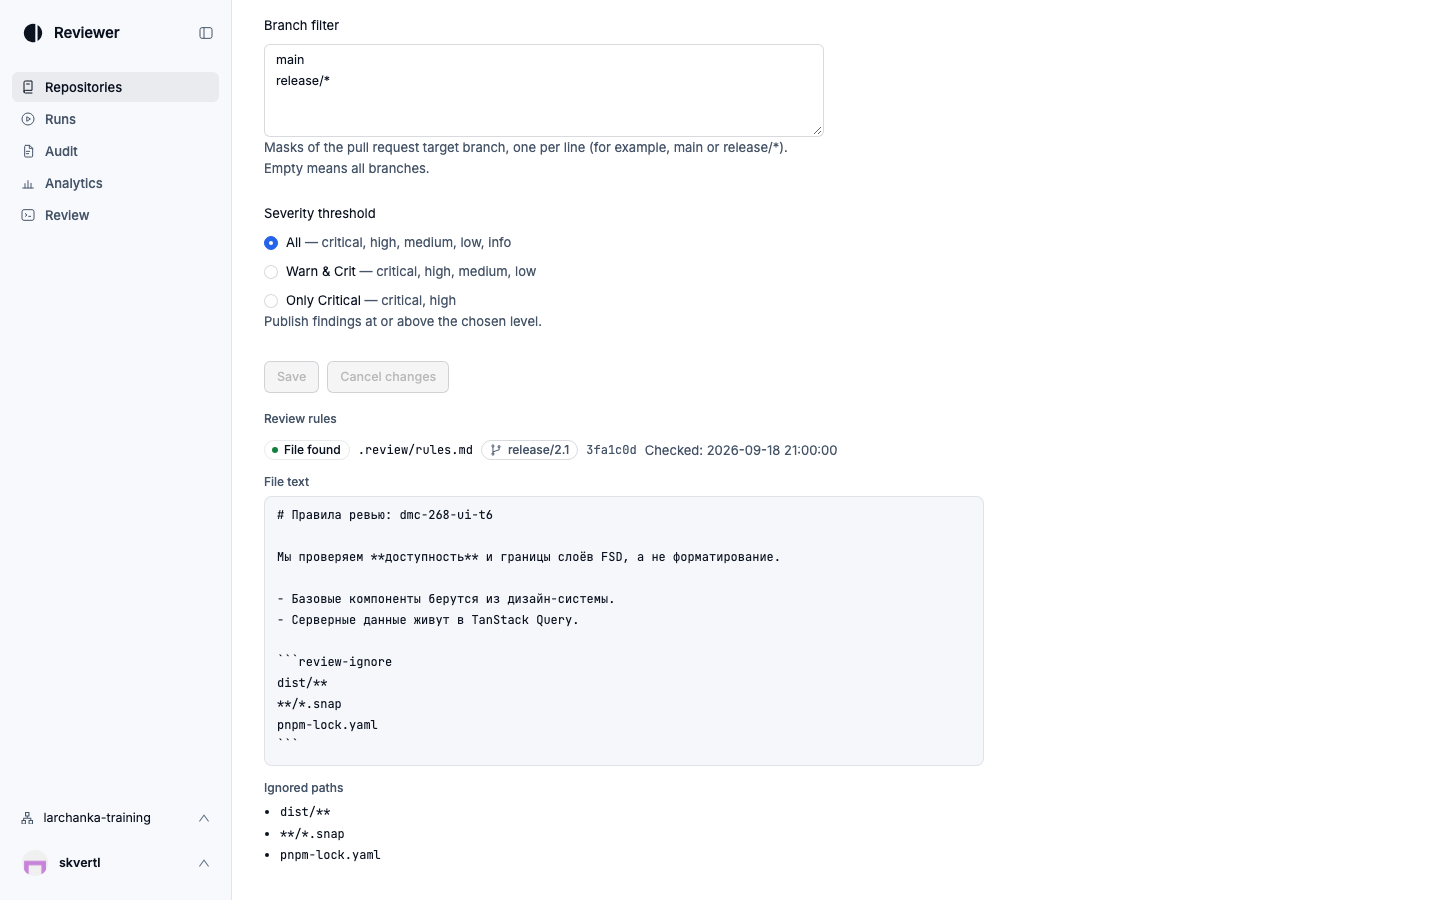
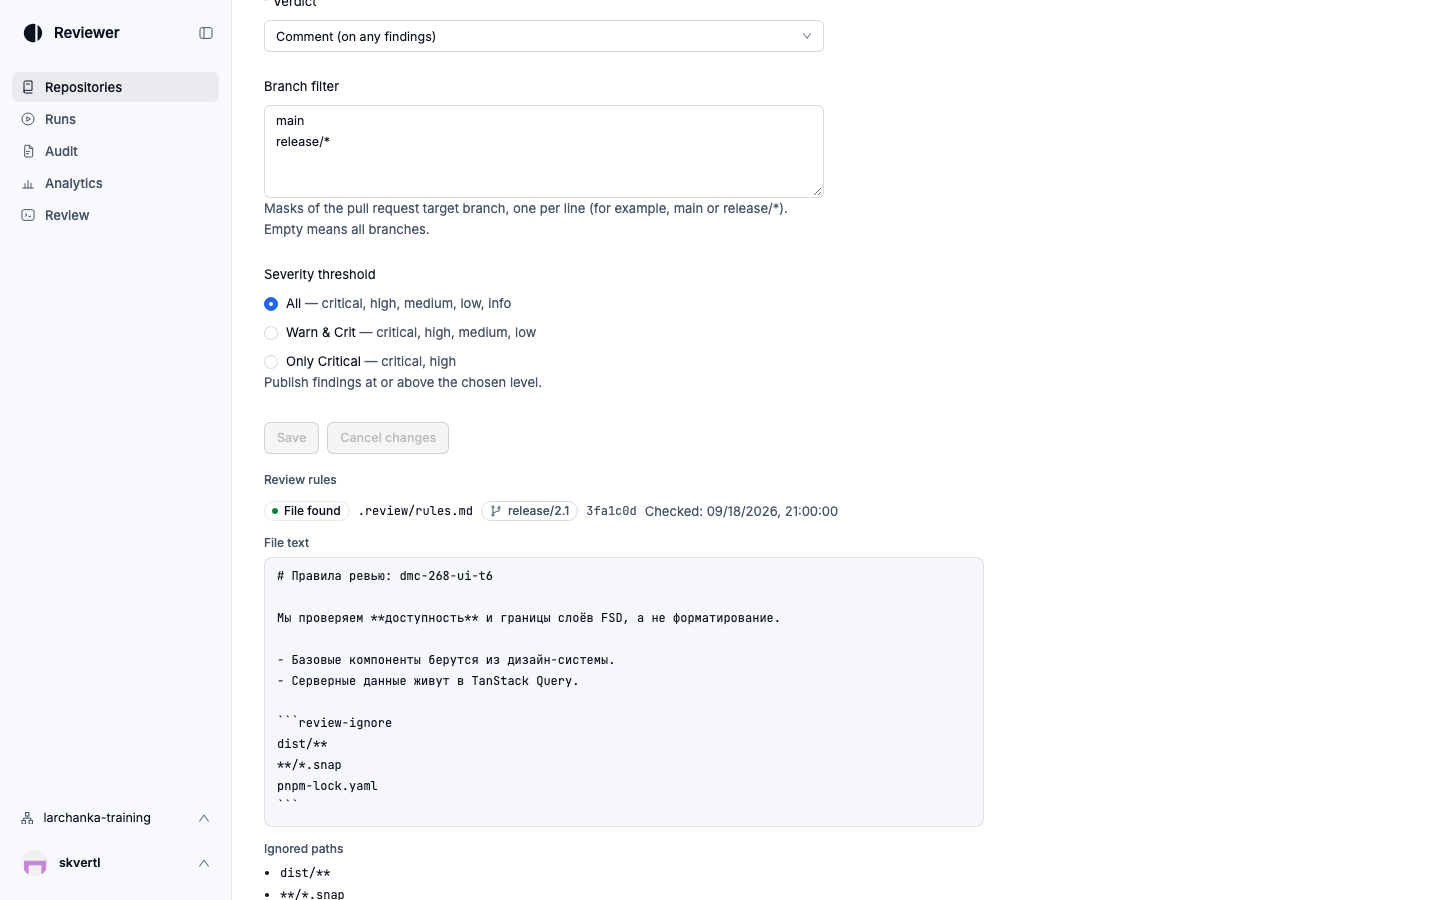
fix(time): keep locale notation with browser time (#129)

Changed region(s): [[0.1875, 0.0, 0.5938, 1.0], [0.3438, 0.4978, 0.5625, 0.5289], [0.4688, 0.6844, 0.5312, 0.7156]]

diff --git a/src/widgets/run-inspector/ui/RunHeader.test.tsx b/src/widgets/run-inspector/ui/RunHeader.test.tsx
@@ -110,8 +110,8 @@ describe('RunHeader metadata layout', () => {
     for (const [label, value] of [
       ['Движок', 'deep'],
       ['Модель', 'claude-sonnet-5'],
-      ['Создан', '2026-09-18 20:00:00'],
-      ['Начат', '2026-09-18 20:50:00'],
+      ['Создан', '18.09.2026, 20:00:00'],
+      ['Начат', '18.09.2026, 20:50:00'],
       ['Длительность', '5 мин 12 с'],
       ['Попытка', '3'],
       ['Причина', 'Неизвестная причина: provider_timeout'],
@@ -199,7 +199,7 @@ describe('RunHeader run origin', () => {
     render(<RunHeader now={new Date('2026-09-18T12:00:00.000Z')} run={{ ...baseRun, trigger }} />)
     expect(screen.queryByText('Перезапущен вручную')).toBeNull()
     expect(screen.queryByText('Запуск')).toBeNull()
-    expect(rowValue('Создан')).toBe('2026-09-18 20:00:00')
+    expect(rowValue('Создан')).toBe('18.09.2026, 20:00:00')
   })
 
   it('shows the creation time and a dash for the start time of a queued run', () => {
@@ -209,14 +209,14 @@ describe('RunHeader run origin', () => {
         run={{ ...baseRun, status: 'queued' as const, startedAt: null, finishedAt: null }}
       />,
     )
-    expect(rowValue('Создан')).toBe('2026-09-18 20:00:00')
+    expect(rowValue('Создан')).toBe('18.09.2026, 20:00:00')
     expect(rowValue('Начат')).toBe('—')
     expect(rowValue('Длительность')).toBe('—')
   })
 
   it('labels the start time «Начат» for a started run', () => {
     render(<RunHeader now={new Date('2026-09-18T12:00:00.000Z')} run={baseRun} />)
-    expect(rowValue('Начат')).toBe('2026-09-18 20:50:00')
+    expect(rowValue('Начат')).toBe('18.09.2026, 20:50:00')
     expect(screen.queryByText('Запущен')).toBeNull()
   })
 })

diff --git a/src/shared/lib/formatLocalDateTime.test.ts b/src/shared/lib/formatLocalDateTime.test.ts
@@ -1,24 +1,31 @@
 import { afterEach, describe, expect, it, vi } from 'vitest'
 
+import { i18n } from '../i18n'
 import { formatLocalDateTime } from './formatLocalDateTime'
 
-afterEach(() => {
+afterEach(async () => {
   vi.unstubAllEnvs()
+  await i18n.changeLanguage('ru')
 })
 
 describe('formatLocalDateTime', () => {
-  it('shows the next calendar day in a timezone east of UTC', () => {
+  it('shows the next calendar day in Tokyo with English notation', async () => {
     vi.stubEnv('TZ', 'Asia/Tokyo')
-    expect(formatLocalDateTime('2026-09-18T23:30:00Z')).toBe('2026-09-19 08:30:00')
+    await i18n.changeLanguage('en')
+    expect(formatLocalDateTime('2026-09-18T23:30:00Z')).toBe('09/19/2026, 08:30:00')
   })
 
-  it('shows the earlier local hour in a timezone west of UTC', () => {
+  it('shows the earlier local hour in Los Angeles with Russian notation', async () => {
     vi.stubEnv('TZ', 'America/Los_Angeles')
-    expect(formatLocalDateTime('2026-09-18T23:30:00Z')).toBe('2026-09-18 16:30:00')
+    await i18n.changeLanguage('ru')
+    expect(formatLocalDateTime('2026-09-18T23:30:00Z')).toBe('18.09.2026, 16:30:00')
   })
 
-  it('keeps the four-digit year layout for early dates', () => {
-    vi.stubEnv('TZ', 'UTC')
-    expect(formatLocalDateTime('0001-01-01T00:00:00Z')).toBe('0001-01-01 00:00:00')
+  it('changes notation when the interface language changes', async () => {
+    vi.stubEnv('TZ', 'Asia/Tokyo')
+    await i18n.changeLanguage('en')
+    expect(formatLocalDateTime('2026-09-18T23:30:00Z')).toBe('09/19/2026, 08:30:00')
+    await i18n.changeLanguage('ru')
+    expect(formatLocalDateTime('2026-09-18T23:30:00Z')).toBe('19.09.2026, 08:30:00')
   })
 })

diff --git a/src/widgets/repository-rules/ui/RulesStatusPanel.test.tsx b/src/widgets/repository-rules/ui/RulesStatusPanel.test.tsx
@@ -217,7 +217,7 @@ describe('RulesStatusPanel', () => {
     expect(view.getByText('.review/rules.md')).toBeTruthy()
     expect(view.getByText('release/2.1')).toBeTruthy()
     expect(view.getByText('1111111')).toBeTruthy()
-    expect(view.getByText('Проверено: 2026-10-14 18:30:15')).toBeTruthy()
+    expect(view.getByText('Проверено: 14.10.2026, 18:30:15')).toBeTruthy()
     expect(panel().textContent).not.toContain('UTC')
     expect(panel().querySelector('pre')?.textContent).toBe('# Rules\nBe kind.')
     expect(view.getByText('dist/**')).toBeTruthy()
@@ -808,7 +808,7 @@ describe('RulesStatusPanel', () => {
 
       expect(within(panel()).getByRole('status').textContent).toBe(CHECKING_TEXT)
       expect(within(panel()).getByText('Не удалось прочитать файл правил')).toBeTruthy()
-      expect(within(panel()).getByText('Проверено: 2026-10-14 18:30:15')).toBeTruthy()
+      expect(within(panel()).getByText('Проверено: 14.10.2026, 18:30:15')).toBeTruthy()
       expect(retryButton().classList.contains('ant-btn-loading')).toBe(true)
     })
 
@@ -819,7 +819,7 @@ describe('RulesStatusPanel', () => {
       await advance(3000)
       await advance(1)
 
-      expect(within(panel()).getByText('Проверено: 2026-10-14 18:31:15')).toBeTruthy()
+      expect(within(panel()).getByText('Проверено: 14.10.2026, 18:31:15')).toBeTruthy()
       expect(within(panel()).queryByRole('status')).toBeNull()
       expect(retryButton()).toBe(retry)
       expect(retry.classList.contains('ant-btn-loading')).toBe(false)

diff --git a/src/features/repository-settings/ui/RagSection.test.tsx b/src/features/repository-settings/ui/RagSection.test.tsx
@@ -17,6 +17,7 @@ beforeAll(() => {
 afterAll(() => {
   vi.unstubAllEnvs()
 })
+
 const READY_INDEX: RagIndex = {
   status: 'ready',
   indexedCommitSha: SHA,
@@ -359,7 +360,7 @@ describe('RagSection: the index status', () => {
     const short = within(statusLine()).getByText('0123456')
     expect(short.tagName).toBe('CODE')
     expect(short.tabIndex).toBe(0)
-    expect(within(statusLine()).getByText('обновлён 2026-10-14 18:30:15')).toBeTruthy()
+    expect(within(statusLine()).getByText('обновлён 14.10.2026, 18:30:15')).toBeTruthy()
     expect(statusLine().textContent).not.toContain('UTC')
     expect(screen.queryByText(SHA)).toBeNull()
 
@@ -385,7 +386,7 @@ describe('RagSection: the index status', () => {
     expect(line.getByText('Устарел').getAttribute('data-tone')).toBe('warning')
     expect(line.getByText('индекс отстаёт от default branch, используется')).toBeTruthy()
     expect(line.getByText('0123456')).toBeTruthy()
-    expect(line.getByText('обновлён 2026-10-14 18:30:15')).toBeTruthy()
+    expect(line.getByText('обновлён 14.10.2026, 18:30:15')).toBeTruthy()
     expect(statusLine().textContent).not.toContain('UTC')
   })
 

diff --git a/src/shared/lib/formatLocalDateTime.ts b/src/shared/lib/formatLocalDateTime.ts
@@ -1,5 +1,13 @@
+import { i18n } from '../i18n'
+
 export function formatLocalDateTime(iso: string): string {
-  const date = new Date(iso)
-  const twoDigits = (value: number): string => String(value).padStart(2, '0')
-  return `${String(date.getFullYear()).padStart(4, '0')}-${twoDigits(date.getMonth() + 1)}-${twoDigits(date.getDate())} ${twoDigits(date.getHours())}:${twoDigits(date.getMinutes())}:${twoDigits(date.getSeconds())}`
+  return new Intl.DateTimeFormat(i18n.language, {
+    year: 'numeric',
+    month: '2-digit',
+    day: '2-digit',
+    hour: '2-digit',
+    minute: '2-digit',
+    second: '2-digit',
+    hourCycle: 'h23',
+  }).format(new Date(iso))
 }

diff --git a/src/pages/repositories/RepositorySettingsPage.test.tsx b/src/pages/repositories/RepositorySettingsPage.test.tsx
@@ -1692,7 +1692,7 @@ describe('RepositorySettingsPage: RAG', () => {
     expect(ragSwitch().getAttribute('aria-checked')).toBe('true')
     expect(within(section).getByText('Готов')).toBeTruthy()
     expect(within(section).getByText(READY_SHA.slice(0, 7)).tagName).toBe('CODE')
-    expect(within(section).getByText('обновлён 2026-10-20 17:15:30')).toBeTruthy()
+    expect(within(section).getByText('обновлён 20.10.2026, 17:15:30')).toBeTruthy()
     expect(section.textContent).not.toContain('UTC')
   })
 

diff --git a/src/pages/audit/AuditPage.test.tsx b/src/pages/audit/AuditPage.test.tsx
@@ -100,7 +100,7 @@ describe('AuditPage', () => {
       nextCursor: null,
     }))
     renderPage()
-    expect(await screen.findByText('2026-09-18 20:00:00')).toBeTruthy()
+    expect(await screen.findByText('18.09.2026, 20:00:00')).toBeTruthy()
     for (const heading of [
       'Начат',
       'Репозиторий',

diff --git a/src/features/repository-settings/lib/ragIndexView.test.ts b/src/features/repository-settings/lib/ragIndexView.test.ts
@@ -37,7 +37,7 @@ function index(overrides: Partial<RagIndex>): RagIndex {
 const PUBLICATION: RagIndexView['publication'] = {
   sha: SHA,
   shortSha: '0123456',
-  indexedAt: '2026-10-14 18:30:15',
+  indexedAt: '14.10.2026, 18:30:15',
 }
 
 describe('ragIndexView', () => {

diff --git a/docs/evidence/129/README.md b/docs/evidence/129/README.md
@@ -1,12 +1,12 @@
 # ui#129 browser evidence
 
-Captured with Chromium, the Vite mock transport, a 1440 × 900 viewport, and the browser timezone set to `Asia/Tokyo`. Each screen was checked in light and dark themes.
+Captured with Chromium, the Vite mock transport, English UI, a 1440 × 900 viewport, and the browser timezone set to `Asia/Tokyo`. Each screen was checked in light and dark themes.
 
-The `before/` screenshots reproduce the old UTC behavior by intercepting the formatter module in the browser and returning `new Date(iso).toISOString().replace('T', ' ').slice(0, 19)`. This keeps the same UI shell for comparison; these are not screenshots of the historical `origin/main` build. The `after/` screenshots use the committed formatter with no interception.
+The `before/` screenshots come from the PR base commit `210f63ef` running unmodified in an isolated Vite snapshot. The `after/` screenshots use this branch. Both runs use the same mock fixtures, language, theme, viewport, browser timezone, and scroll positions (run: top; rules: 600 px). No formatter module is intercepted. The timestamps below come from the mock transport fixtures, so these screenshots do not establish a live API response in the Network panel.
 
-| Screen                | Mock API time          | Before                | After                 |
-| --------------------- | ---------------------- | --------------------- | --------------------- |
-| Run header, Created   | `2026-09-18T11:49:00Z` | `2026-09-18 11:49:00` | `2026-09-18 20:49:00` |
-| Review rules, Checked | `2026-09-18T12:00:00Z` | `2026-09-18 12:00:00` | `2026-09-18 21:00:00` |
+| Screen                | Mock fixture ISO time  | Before (base, UTC)     | After (browser local)  |
+| --------------------- | ---------------------- | ---------------------- | ---------------------- |
+| Run header, Created   | `2026-09-18T11:49:00Z` | `09/18/2026, 11:49:00` | `09/18/2026, 20:49:00` |
+| Review rules, Checked | `2026-09-18T12:00:00Z` | `09/18/2026, 12:00:00` | `09/18/2026, 21:00:00` |
 
-Both values retain the 19-character layout, stay on one line, and keep the same color within each theme. The CSS is unchanged.
+The English values remain 20 characters, stay on one line, and keep the same color within each theme. The CSS is unchanged. The date and time notation still follows the selected interface language, as required by #182; #129's fixed 19-character layout is intentionally superseded by that decision.

diff --git a/docs/FRONTEND_ARCHITECTURE.md b/docs/FRONTEND_ARCHITECTURE.md
@@ -1094,10 +1094,9 @@ Upgrade canary в `routerLocationAdapter.test.tsx` проверяет досту
   `disabled` при включённом RAG — окно оптимистичного обновления: `ragEnabled` уже перевёрнут, а `ragIndex`
   отстаёт на один ответ, поэтому такой статус читается «Не построен»; при выключенном RAG старый статус не
   виден вовсе («Выключен»). Короткий sha — первые 7 символов в `<code tabIndex={0}>` с `Tooltip` на hover и
-  focus (в нём полный sha, как в блоке правил), время — UTC `YYYY-MM-DD HH:mm:ss` (`shortSha`,
-  `formatIndexedAt`; в срезе фичи написаны заново: из `widgets/repository-rules` их импортировать нельзя, §1)
-  без подписи зоны, как «Проверено: …» блока правил: подпись «UTC» убрана из всего приложения в #106, локальное
-  время — ui#129.
+  focus (в нём полный sha, как в блоке правил), время — в местном часовом поясе браузера и формате
+  выбранного языка через `formatLocalDateTime` из `shared/lib`. `shortSha` остаётся в срезе фичи: из
+  `widgets/repository-rules` его импортировать нельзя (§1).
   Если у `ready` или `stale` нет `indexedCommitSha` или `indexedAt` (контракт этого не допускает), sha и время
   не показываются, ошибки нет.
   `lastErrorCode` при включённом RAG показан у любого статуса (`reason` из `ragIndexView`; api ставит его, когда
